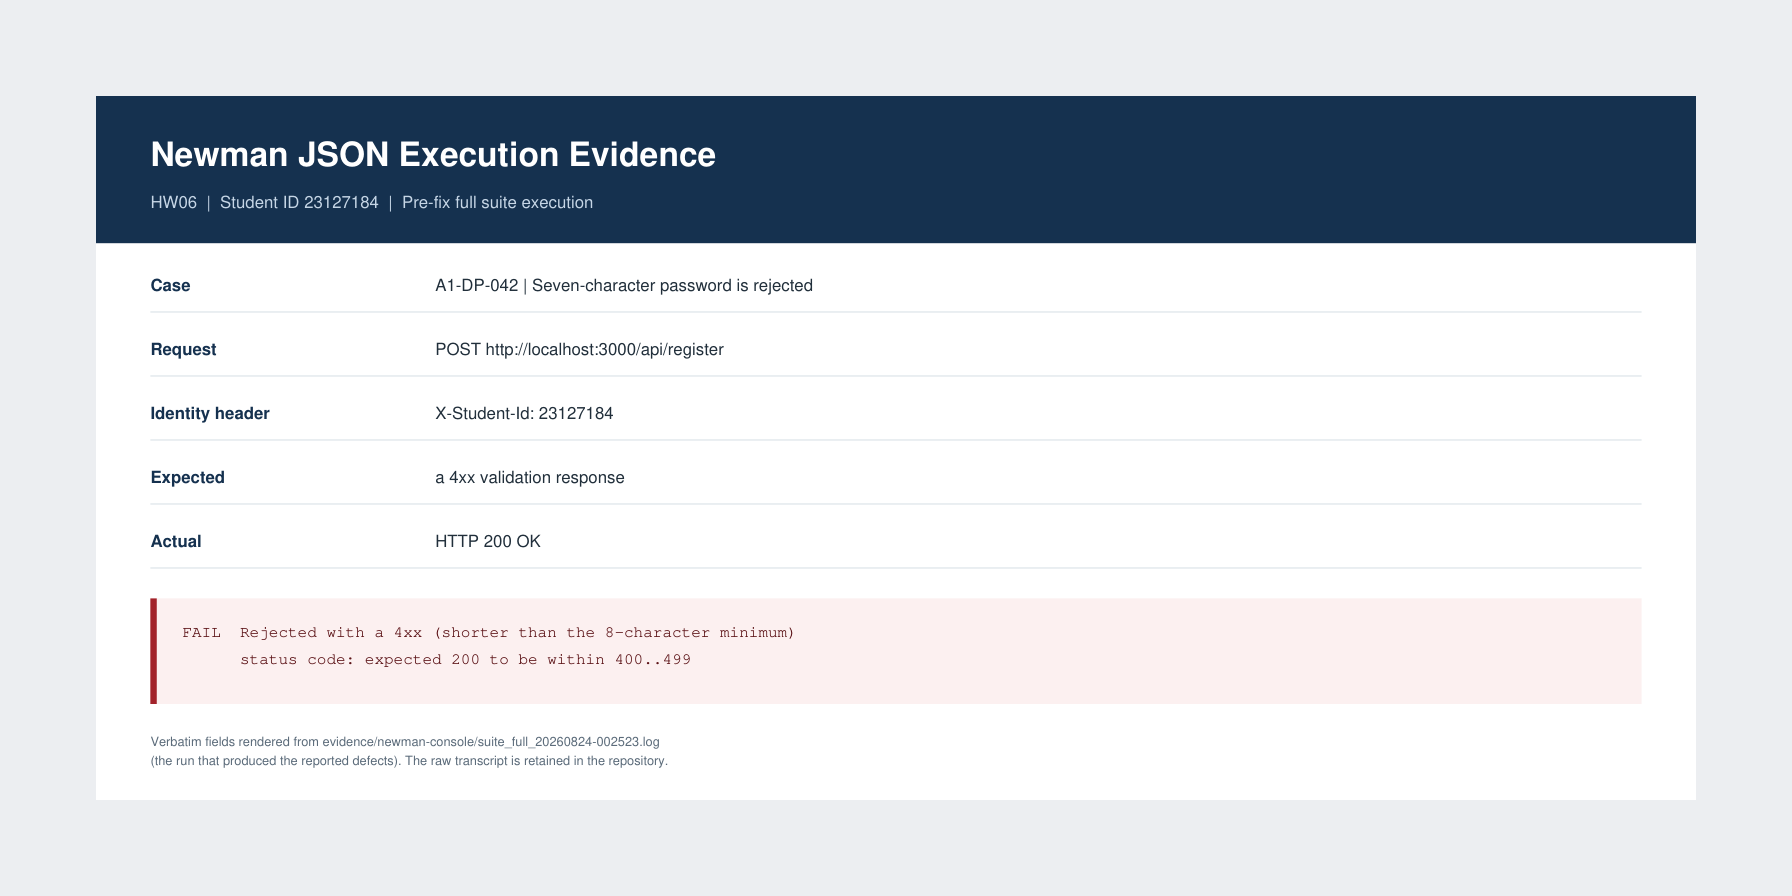
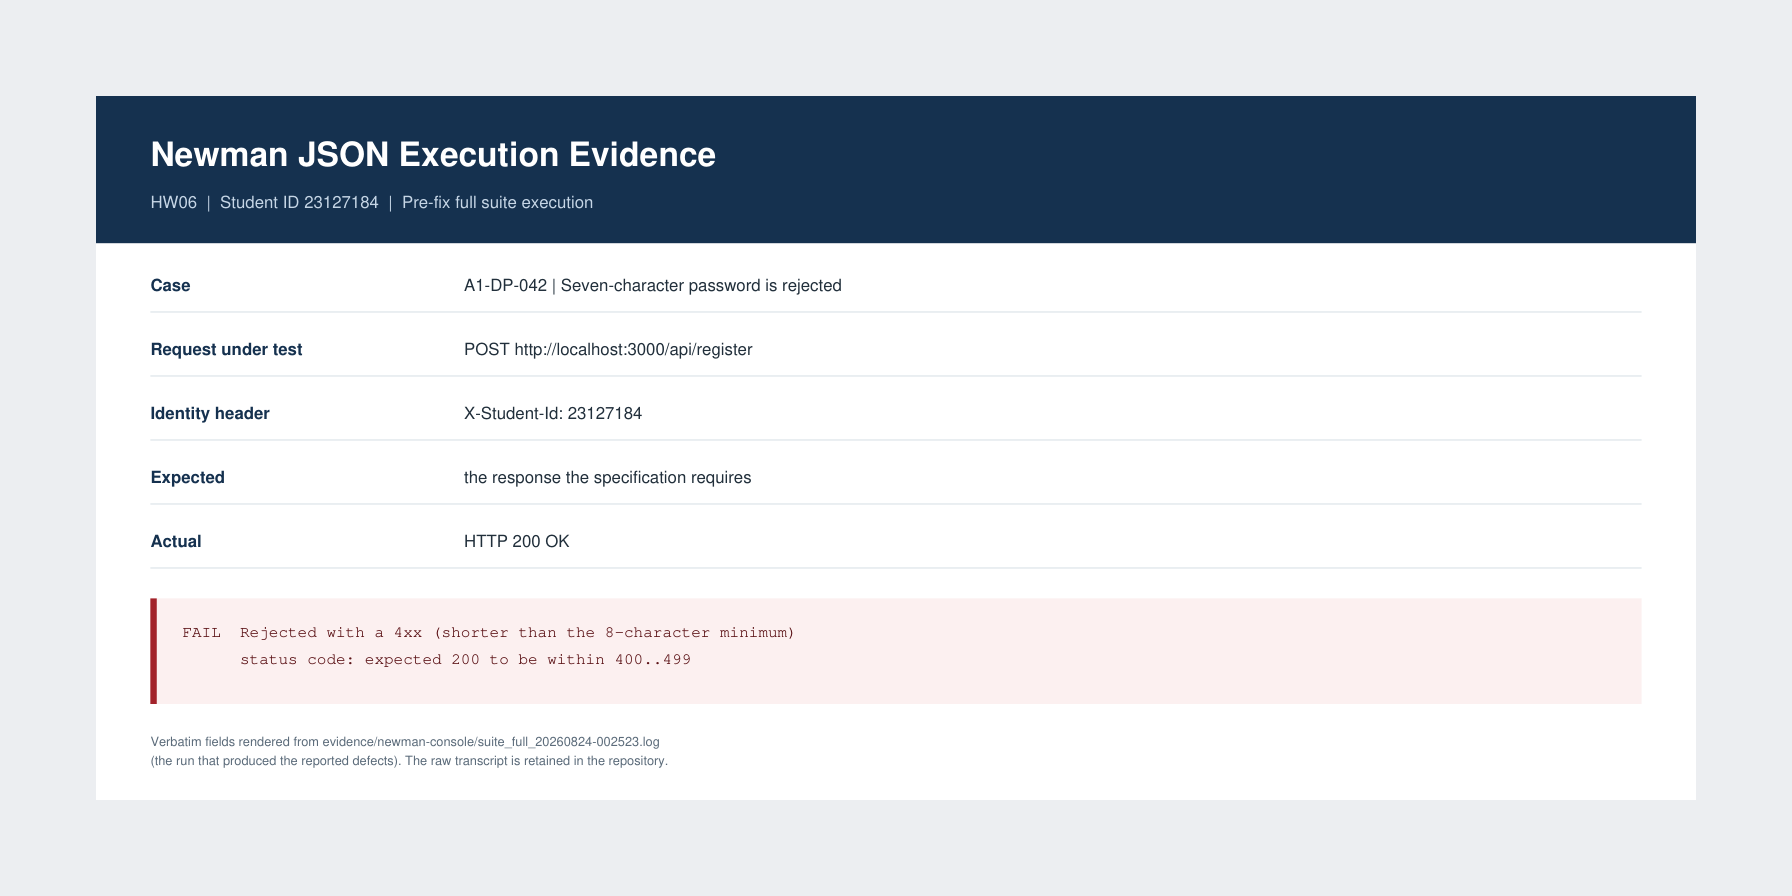
fix(hw06): name the request under test on every evidence card
The card renderer took the first HTTP line in a case block, but API3 cases
build their state with pm.sendRequest fixtures first, so A3-ST-008 was
captioned with the fixture's POST /api/register instead of the cancel call it
actually tests. Take the last call before the assertions and list the fixture
chain explicitly, with wrapping so long chains stay inside the card.

Also re-evidences issues #26 and #33, whose HW04 screenshots pointed at a
branch that was never pushed and returned 404.

diff --git a/HW06/scripts/build-issue-evidence.py b/HW06/scripts/build-issue-evidence.py
@@ -41,6 +41,10 @@ ISSUE_CASES = {
     62: ("A1-DP-047", "password-no-digit"),
     63: ("A1-DP-048", "password-no-special"),
     64: ("A1-DP-033", "duplicate-email"),
+    # These two were filed with HW04 screenshots on a branch that was never
+    # pushed, so their images 404. Re-evidence them from the HW06 transcript.
+    26: ("A3-ST-008", "cancel-shipping-order"),
+    33: ("A3-DP-009", "deleted-account-token"),
 }
 
 ANSI = re.compile(r"\x1b\[[0-9;]*m")
@@ -53,34 +57,52 @@ def read_log() -> list[str]:
     return [ANSI.sub("", line).rstrip() for line in text.splitlines()]
 
 
+ASSERTION = re.compile(r"^(?:[√✓×✗]|\d+\.)\s")
+
+
 def collect_runs(lines: list[str]) -> dict[str, dict]:
-    """Walk the run transcript and record what each case actually did."""
+    """Walk the run transcript and record what each case actually did.
+
+    A case block lists every HTTP call the block made, and several cases build
+    their state with `pm.sendRequest` fixtures first. The request under test is
+    therefore the *last* call before the assertions start, not the first.
+    """
     runs: dict[str, dict] = {}
     current: dict | None = None
     for line in lines:
         stripped = line.strip()
-        if not stripped:
+        if not stripped or stripped.startswith('inside "'):
             continue
         head = CASE_HEAD.search(stripped)
-        if head and stripped.startswith(("#", "→", "%", "?")) is False and " | " in stripped:
+        if head and " | " in stripped and not REQUEST.match(stripped):
             # A case header looks like "<glyph> A1-DP-002 | Missing name field is rejected"
-            case_id, title = head.group(1), head.group(2)
-            current = {"case": case_id, "title": title, "failures": []}
-            runs.setdefault(case_id, current)
-            current = runs[case_id]
+            current = {"case": head.group(1), "title": head.group(2), "calls": []}
+            runs[head.group(1)] = current
             continue
         if current is None:
             continue
         req = REQUEST.match(stripped)
-        if req and "request" not in current:
-            current["method"] = req.group(1)
-            current["url"] = req.group(2)
-            current["status"] = f"HTTP {req.group(3)} {req.group(4).strip()}"
-            current["request"] = f"{req.group(1)} {req.group(2)}"
+        if req:
+            if current.get("sealed"):
+                continue
+            current["calls"].append(
+                {
+                    "request": f"{req.group(1)} {req.group(2)}",
+                    "status": f"HTTP {req.group(3)} {req.group(4).strip()}",
+                }
+            )
             continue
-        fail = re.match(r"^\d+\.\s+(.*)$", stripped)
-        if fail and "request" in current:
-            current["failures"].append(fail.group(1).strip())
+        if ASSERTION.match(stripped) and current["calls"]:
+            # The assertions have begun, so no later line belongs to this case.
+            current["sealed"] = True
+
+    for case, run in runs.items():
+        if not run["calls"]:
+            continue
+        under_test = run["calls"][-1]
+        run["request"] = under_test["request"]
+        run["status"] = under_test["status"]
+        run["fixtures"] = [call["request"] for call in run["calls"][:-1]]
     return runs
 
 
@@ -126,27 +148,54 @@ SUBTITLE = (0.780, 0.843, 0.902)
 WIDTH = 1120.0
 MARGIN = 60.0
 PAD = 34.0
-LABEL_W = 178.0
+LABEL_W = 196.0
 ROW_H = 40.0
+
+
+def wrap(value: str, width: float, size: float = 10.5) -> list[str]:
+    """Break a field value on spaces so it stays inside the card."""
+    lines: list[str] = []
+    line = ""
+    for word in value.split(" "):
+        candidate = f"{line} {word}".strip()
+        if line and fitz.get_text_length(candidate, fontname="helv", fontsize=size) > width:
+            lines.append(line)
+            line = word
+        else:
+            line = candidate
+    if line:
+        lines.append(line)
+    return lines
 
 
 def render(issue: int, slug: str, run: dict, details: list[tuple[str, str]]) -> Path:
     """Draw the evidence card directly; every string comes from the transcript."""
     fields = [
         ("Case", f"{run['case']} | {run['title']}"),
-        ("Request", run["request"]),
+        ("Request under test", run["request"]),
         ("Identity header", f"X-Student-Id: {STUDENT_ID}"),
-        ("Expected", "a 4xx validation response"),
+        ("Expected", "the response the specification requires"),
         ("Actual", run["status"]),
     ]
+    if run["fixtures"]:
+        # The card has no room for absolute URLs; the host is already on the
+        # request-under-test row above.
+        paths = [call.replace("http://localhost:3000", "") for call in run["fixtures"]]
+        fields.insert(
+            2,
+            ("Fixture chain", f"{len(paths)} setup calls: " + ", ".join(paths)),
+        )
     fail_lines: list[str] = []
     for assertion, detail in details:
         fail_lines.append(f"FAIL  {assertion}")
         if detail:
             fail_lines.append(f"      {detail}")
 
+    value_w = WIDTH - MARGIN * 2 - PAD * 2 - LABEL_W
+    wrapped = [(label, wrap(value, value_w)) for label, value in fields]
+
     header_h = 92.0
-    rows_h = ROW_H * len(fields) + 20
+    rows_h = sum(ROW_H + 14 * (len(v) - 1) for _, v in wrapped) + 20
     fail_h = 20 + 17 * len(fail_lines) + 12
     footer_h = 44.0
     height = MARGIN * 2 + header_h + rows_h + 18 + fail_h + footer_h
@@ -172,17 +221,20 @@ def render(issue: int, slug: str, run: dict, details: list[tuple[str, str]]) -> 
     )
 
     y = band.y1 + 30
-    for label, value in fields:
+    for label, value_lines in wrapped:
         page.insert_text((card.x0 + PAD, y), label, fontname="hebo", fontsize=10.5, color=NAVY)
-        page.insert_text(
-            (card.x0 + PAD + LABEL_W, y), value, fontname="helv", fontsize=10.5, color=INK
-        )
+        for offset, chunk in enumerate(value_lines):
+            page.insert_text(
+                (card.x0 + PAD + LABEL_W, y + offset * 14),
+                chunk, fontname="helv", fontsize=10.5, color=INK,
+            )
+        bottom = y + 14 * (len(value_lines) - 1) + 13
         page.draw_line(
-            fitz.Point(card.x0 + PAD, y + 13),
-            fitz.Point(card.x1 - PAD, y + 13),
+            fitz.Point(card.x0 + PAD, bottom),
+            fitz.Point(card.x1 - PAD, bottom),
             color=RULE, width=0.8,
         )
-        y += ROW_H
+        y += ROW_H + 14 * (len(value_lines) - 1)
 
     box = fitz.Rect(card.x0 + PAD, y - 8, card.x1 - PAD, y - 8 + fail_h)
     page.draw_rect(box, color=None, fill=FAIL_BG)

diff --git a/HW06/evidence/EVIDENCE_INDEX.md b/HW06/evidence/EVIDENCE_INDEX.md
@@ -21,6 +21,8 @@ No placeholder or simulated application UI is included.
 | GitHub Issue #68 | `screenshots/github-issue-68-text-plain-http500.png` | Signed-in account, issue title/number, request and student header |
 | GitHub Issue #69 | `screenshots/github-issue-69-html-stack-trace.png` | Signed-in account, issue title/number and student header |
 | GitHub Issue #70 | `screenshots/github-issue-70-product-write-auth.png` | Signed-in account, issue title/number and student header |
+| GitHub Issue #26 | `screenshots/github-issue-26-cancel-shipping-order-newman.png` | **Pre-fix SUT.** Verbatim console fields for `A3-ST-008`: the fixture chain, `PUT /api/orders/19/cancel`, `X-Student-Id: 23127184`, actual HTTP 200 and the failed assertion |
+| GitHub Issue #33 | `screenshots/github-issue-33-deleted-account-token-newman.png` | **Pre-fix SUT.** Verbatim console fields for `A3-DP-009`: the fixture chain including the account deletion, `GET /api/orders/my-orders`, actual HTTP 200 and the failed assertion |
 | GitHub Issue #47 | `screenshots/github-issue-47-name-omitted-newman.png` | **Pre-fix SUT.** Verbatim console fields for `A1-DP-002` (name omitted): request, `X-Student-Id: 23127184`, expected 4xx, actual HTTP 200 and the failed assertion. Rendered by `scripts/build-issue-evidence.py` from the retained transcript |
 | GitHub Issue #48 | `screenshots/github-issue-48-email-omitted-newman.png` | **Pre-fix SUT.** Verbatim console fields for `A1-DP-015` (email omitted): request, `X-Student-Id: 23127184`, expected 4xx, actual HTTP 200 and the failed assertion. Rendered by `scripts/build-issue-evidence.py` from the retained transcript |
 | GitHub Issue #49 | `screenshots/github-issue-49-password-omitted-newman.png` | **Pre-fix SUT.** Verbatim console fields for `A1-DP-039` (password omitted): request, `X-Student-Id: 23127184`, expected 4xx, actual HTTP 200 and the failed assertion. Rendered by `scripts/build-issue-evidence.py` from the retained transcript |
